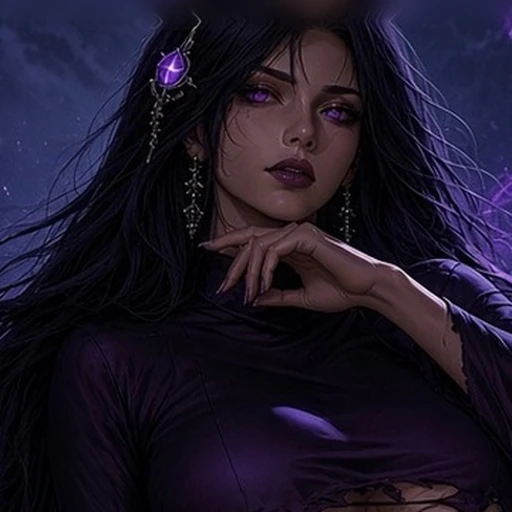
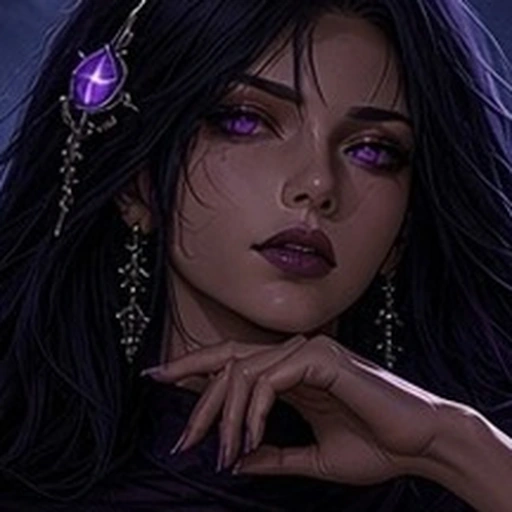
修正自走棋七名角色头像居中构图

diff --git a/js/config.js b/js/config.js
@@ -804,7 +804,7 @@
         id: 'lanyi',
         name: '清冷剑仙',
         quality: 'xian',
-        avatar: 'assets/battle/avatars/lanyi.webp?v=3',
+        avatar: 'assets/battle/avatars/lanyi.webp?v=4',
         avatarPos: '47% 17%',
         avatarScale: 2.6,
         img: 'assets/hero_v21_new_hd.jpg?v=3',
@@ -826,7 +826,7 @@
         id: 'cloak',
         name: '魔灵光',
         quality: 'xian',
-        avatar: 'assets/battle/avatars/cloak.webp?v=3',
+        avatar: 'assets/battle/avatars/cloak.webp?v=4',
         avatarPos: '55% 15%',
         avatarScale: 2.6,
         img: 'assets/hero_mlg_dawn_hd.jpg?v=3',
@@ -848,7 +848,7 @@
         id: 'saintess',
         name: '圣王女',
         quality: 'xian',
-        avatar: 'assets/battle/avatars/saintess.webp?v=3',
+        avatar: 'assets/battle/avatars/saintess.webp?v=4',
         avatarPos: '48% 12%',
         avatarScale: 2.6,
         img: 'assets/hero_saintess_v4b_hd.jpg?v=3',
@@ -870,7 +870,7 @@
         id: 'miko',
         name: '灼樱巫女',
         quality: 'xian',
-        avatar: 'assets/battle/avatars/miko.webp?v=3',
+        avatar: 'assets/battle/avatars/miko.webp?v=4',
         avatarPos: '57% 14%',
         avatarScale: 2.6,
         img: 'assets/hero_miko_dawn_hd.jpg?v=3',
@@ -892,7 +892,7 @@
         id: 'shuanghua',
         name: '霜华玉仙',
         quality: 'xian',
-        avatar: 'assets/battle/avatars/shuanghua.webp?v=3',
+        avatar: 'assets/battle/avatars/shuanghua.webp?v=4',
         avatarPos: '52% 17%',
         avatarScale: 2.6,
         img: 'assets/hero_shuanghua_hd.jpg?v=3',
@@ -914,7 +914,7 @@
         id: 'sweetmaid',
         name: '甜心女仆',
         quality: 'xian',
-        avatar: 'assets/battle/avatars/sweetmaid.webp?v=3',
+        avatar: 'assets/battle/avatars/sweetmaid.webp?v=4',
         avatarPos: '64% 19%',
         avatarScale: 2.6,
         img: 'assets/hero_sweetmaid_hd.jpg?v=3',
@@ -936,7 +936,7 @@
         id: 'jianghua',
         name: '绛华倾城',
         quality: 'xian',
-        avatar: 'assets/battle/avatars/jianghua.webp?v=1',
+        avatar: 'assets/battle/avatars/jianghua.webp?v=2',
         avatarPos: '50% 18%',
         avatarScale: 2.6,
         img: 'assets/hero_jianghua_hd.jpg?v=1',

diff --git a/index.html b/index.html
@@ -555,7 +555,7 @@
   </div>
 
   <script src="js/no-zoom.js?v=22"></script>
-  <script src="js/config.js?v=53"></script>
+  <script src="js/config.js?v=54"></script>
   <script src="js/equip.js?v=22"></script>
   <script src="js/state.js?v=25"></script>
   <script src="js/titles.js?v=23"></script>
